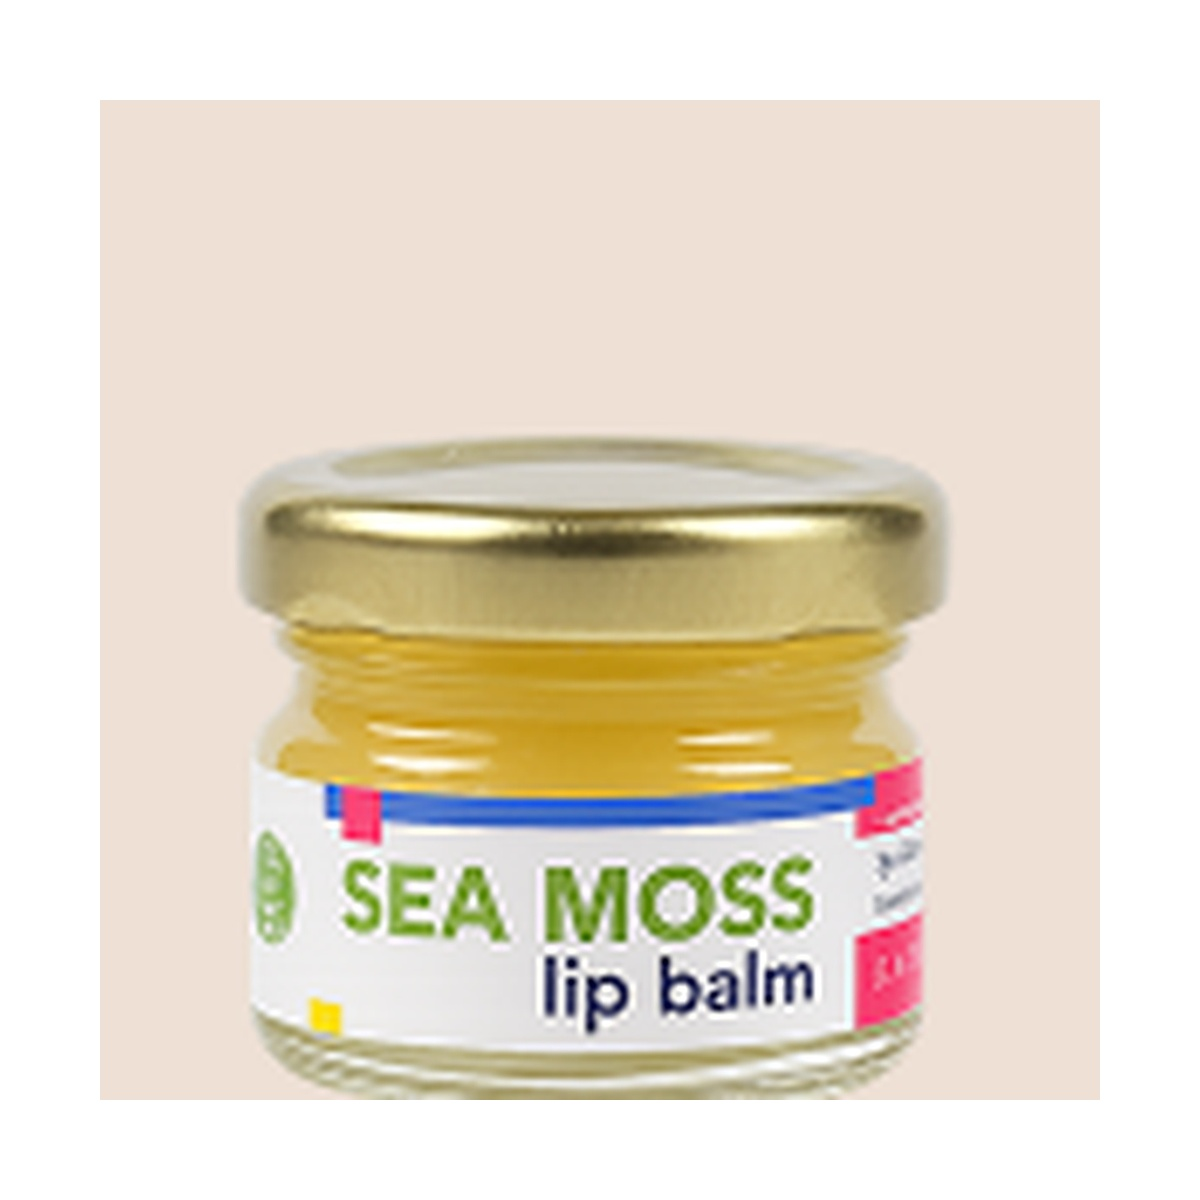
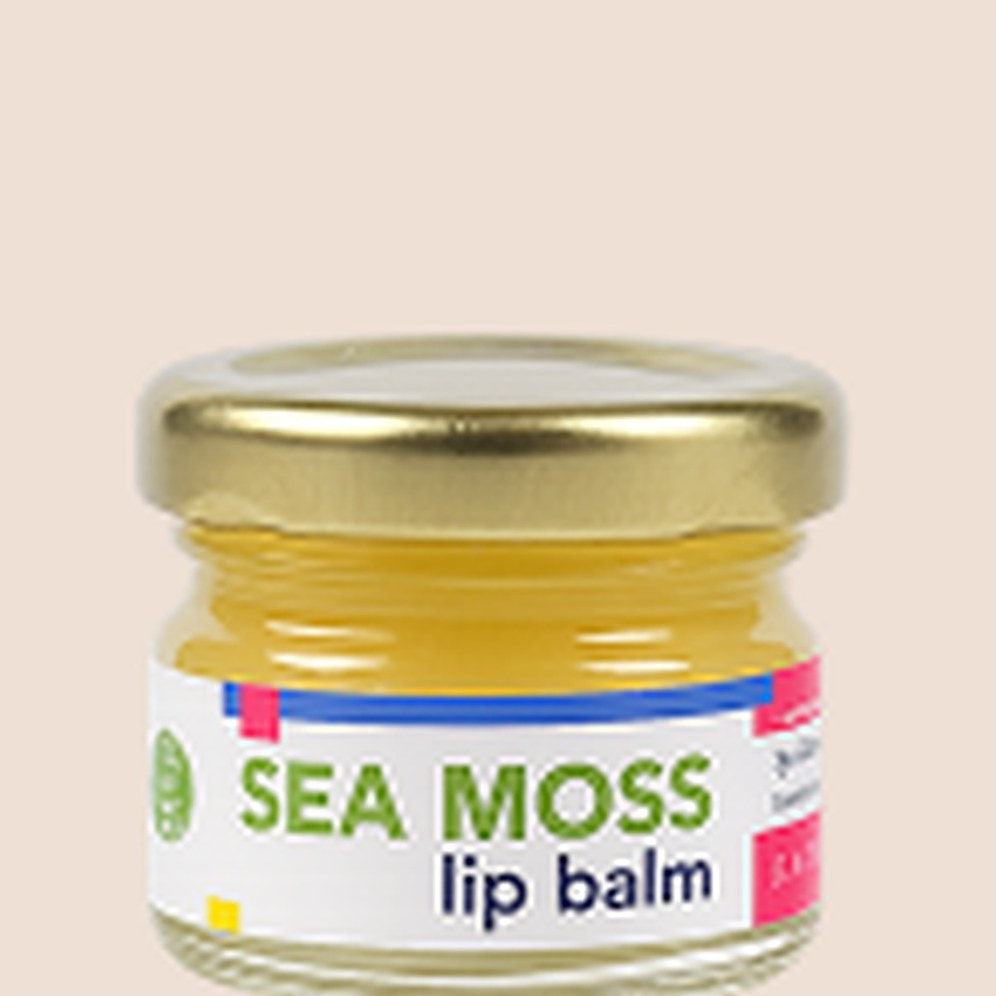
Polish product cards and photos
- Trim the white borders baked into the product photos and crop them to squares
- Product grid: 4 equal-height cards per row, full-bleed photos, calmer shadows and hover
- Hide the empty star row until a product has reviews
- Product page: full-bleed main photo; related products come from the real catalogue

diff --git a/frontend/green-public-website/src/components/Products/Products.jsx b/frontend/green-public-website/src/components/Products/Products.jsx
@@ -178,8 +178,7 @@ const Products = ({ searchTerm }) => {
       }
     },
     hover: {
-      y: -10,
-      scale: 1.03,
+      y: -4,
       transition: {
         duration: 0.3,
         ease: "easeOut"
@@ -276,7 +275,7 @@ const Products = ({ searchTerm }) => {
               variants={containerVariants}
               initial="hidden"
               animate="visible"
-              className="grid grid-cols-1 sm:grid-cols-2 lg:grid-cols-3 gap-6 md:gap-8"
+              className="grid grid-cols-1 sm:grid-cols-2 lg:grid-cols-4 gap-6"
             >
               {filteredItems.length > 0 ? (
                 filteredItems.map((product) => (
@@ -287,12 +286,12 @@ const Products = ({ searchTerm }) => {
                     whileHover="hover"
                     onHoverStart={() => setHoveredProduct(product.id)}
                     onHoverEnd={() => setHoveredProduct(null)}
-                    className="relative group"
+                    className="relative group h-full"
                   >
-                    <Link to={`/product/${product.id}`}>
-                      <div className="bg-gradient-to-b from-white to-gray-50 rounded-3xl shadow-xl hover:shadow-2xl transition-all duration-500 overflow-hidden cursor-pointer border border-[#DAB6A2]/20">
+                    <Link to={`/product/${product.id}`} className="block h-full">
+                      <div className="h-full flex flex-col bg-white rounded-2xl shadow-sm hover:shadow-xl transition-shadow duration-300 overflow-hidden cursor-pointer border border-[#DAB6A2]/25">
                         {/* Product Image Container */}
-                        <div className="relative overflow-hidden bg-gradient-to-br from-[#f8f5f2] to-[#f1e9df] p-4 md:p-5 h-64 flex items-center justify-center">
+                        <div className="relative aspect-square overflow-hidden bg-[#f4ece4]">
                           {/* Tags */}
                           <div className="absolute top-4 left-4 z-10 flex flex-col gap-2">
                             {product.tags.slice(0, 2).map((tag, idx) => (
@@ -312,7 +311,8 @@ const Products = ({ searchTerm }) => {
                               e.stopPropagation();
                               toggleWishlist(product);
                             }}
-                            className="absolute top-4 right-4 z-10 w-10 h-10 bg-white rounded-full flex items-center justify-center shadow-lg hover:shadow-xl transition-all duration-300 hover:scale-110"
+                            aria-label={isInWishlist(product.id) ? "Remove from wishlist" : "Add to wishlist"}
+                            className="absolute top-3 right-3 z-10 w-9 h-9 bg-white/90 backdrop-blur rounded-full flex items-center justify-center shadow-md hover:bg-white transition-colors duration-300"
                           >
                             <Heart 
                               className={`w-5 h-5 transition-colors duration-300 ${
@@ -324,21 +324,18 @@ const Products = ({ searchTerm }) => {
                           </button>
                           
                           {/* Product Image */}
-                          <motion.img
+                          <img
                             src={product.img}
                             alt={product.name}
-                            className="w-full h-full object-contain transform group-hover:scale-110 transition-transform duration-700"
-                            whileHover={{ scale: 1.15 }}
+                            loading="lazy"
+                            className="absolute inset-0 w-full h-full object-cover transition-transform duration-500 group-hover:scale-105"
                           />
-                          
-                          {/* Hover Overlay */}
-                          <div className="absolute inset-0 bg-gradient-to-t from-black/10 via-transparent to-transparent opacity-0 group-hover:opacity-100 transition-opacity duration-500" />
                         </div>
 
                         {/* Product Info */}
-                        <div className="p-6">
+                        <div className="p-5 flex flex-col flex-1">
                           {/* Category */}
-                          <div className="mb-3">
+                          <div className="mb-2">
                             <span className="text-xs font-medium text-[#8B5A2B] uppercase tracking-wider">
                               {product.category}
                             </span>
@@ -346,18 +343,19 @@ const Products = ({ searchTerm }) => {
                           
                           {/* Name */}
                           <h3 
-                            className="font-bold text-xl text-gray-800 mb-3 line-clamp-2 leading-tight"
+                            className="font-bold text-lg text-gray-800 mb-2 line-clamp-2 leading-snug"
                             style={{ fontFamily: "'Playfair Display', serif" }}
                           >
                             {product.name}
                           </h3>
                           
                           {/* Description */}
-                          <p className="text-gray-600 text-sm mb-4 line-clamp-3 min-h-[60px] leading-relaxed">
+                          <p className="text-gray-600 text-sm mb-4 line-clamp-2 leading-relaxed">
                             {product.description}
                           </p>
                           
-                          {/* Rating */}
+                          {/* Rating (only once there are reviews) */}
+                          {product.reviewCount > 0 && (
                           <div className="flex items-center gap-2 mb-4">
                             <div className="flex items-center gap-1">
                               {[...Array(5)].map((_, i) => (
@@ -372,16 +370,15 @@ const Products = ({ searchTerm }) => {
                               ))}
                             </div>
                             <span className="text-sm text-gray-500">
-                              {product.reviewCount > 0
-                                ? `${product.rating} (${product.reviewCount} review${product.reviewCount !== 1 ? 's' : ''})`
-                                : "No reviews yet"}
+                              {`${product.rating} (${product.reviewCount} review${product.reviewCount !== 1 ? 's' : ''})`}
                             </span>
                           </div>
+                          )}
                           
                           {/* Price & Action */}
-                          <div className="flex items-center justify-between pt-4 border-t border-gray-100">
+                          <div className="mt-auto flex items-center justify-between gap-3 pt-4 border-t border-gray-100">
                             <div>
-                              <span className="text-2xl font-bold text-[#8B5A2B]">
+                              <span className="text-xl font-bold text-[#8B5A2B]">
                                 {product.price}
                               </span>
                               {product.lowStock && (
@@ -393,7 +390,7 @@ const Products = ({ searchTerm }) => {
                             <motion.button
                               whileHover={{ scale: 1.05 }}
                               whileTap={{ scale: 0.95 }}
-                              className="bg-gradient-to-r from-[#8B5A2B] to-[#DAB6A2] hover:from-[#9C6B3C] hover:to-[#E9C6B5] text-white px-6 py-3 rounded-xl font-semibold text-sm transition-all duration-300 shadow-md hover:shadow-xl flex items-center gap-2 group"
+                              className="shrink-0 bg-[#8B5A2B] hover:bg-[#744A22] text-white px-4 py-2.5 rounded-lg font-semibold text-sm transition-colors duration-300 flex items-center gap-2"
                               onClick={(e) => {
                                 e.preventDefault();
                                 e.stopPropagation();

diff --git a/frontend/green-public-website/src/components/Products/ProductDetail.jsx b/frontend/green-public-website/src/components/Products/ProductDetail.jsx
@@ -37,7 +37,7 @@ const getProductImageByName = (name) => {
   if (n.includes("balm") || n.includes("lip")) return BalmImg;
   return SeaMossGelImg;
 };
-import { getProductById } from "@/api/productApi";
+import { getProductById, getProducts } from "@/api/productApi";
 import { createReview, getReviewsByProduct } from "@/api/reviewApi";
 
 // Enhanced product data
@@ -100,10 +100,30 @@ export default function ProductDetail() {
   const { id } = useParams();
   const [product, setProduct] = useState(null);
   const [isLoading, setIsLoading] = useState(true);
+  const [catalog, setCatalog] = useState(items);
 
   // All hooks should be grouped here
   const addToCart = useCartStore((state) => state.addToCartLocal || state.addToCart);
   const modifyServerCart = useCartStore((state) => state.modifyServerCart);
+
+  // Real catalogue for "Complete Your Wellness Ritual"; the static list is only a fallback
+  useEffect(() => {
+    let mounted = true;
+    getProducts()
+      .then((data) => {
+        if (!mounted || !Array.isArray(data) || data.length === 0) return;
+        setCatalog(data.map((p) => ({
+          id: String(p.id),
+          name: p.name,
+          desc: p.description || "",
+          price: `R ${p.price}`,
+          category: typeof p.category === "string" ? p.category : p.category?.name || "general",
+          img: getFallbackProductImage(p.id, p.name),
+        })));
+      })
+      .catch(() => {});
+    return () => { mounted = false; };
+  }, []);
 
   useEffect(() => {
     let mounted = true;
@@ -318,7 +338,10 @@ export default function ProductDetail() {
     return parsed.toLocaleDateString();
   };
 
-  const relatedProducts = items.filter((p) => p.id !== product.id && p.category === product.category);
+  // Same category first, then the rest of the range
+  const relatedProducts = catalog
+    .filter((p) => String(p.id) !== String(product.id))
+    .sort((a, b) => (b.category === product.category) - (a.category === product.category));
 
   return (
     <div className="bg-gradient-to-b from-white to-[#f8f5f2] min-h-screen" style={{ fontFamily: "'Playfair Display', serif" }}>
@@ -355,10 +378,10 @@ export default function ProductDetail() {
             transition={{ duration: 0.6 }}
             className="relative"
           >
-            <div className="bg-gradient-to-br from-[#F6E9E0] to-[#f8f5f2] p-8 md:p-12 rounded-3xl shadow-xl">
+            <div className="relative aspect-square overflow-hidden rounded-3xl shadow-lg bg-[#f4ece4]">
               {/* Premium Badge */}
-              <div className="absolute top-6 left-6 z-10">
-                <span className="inline-flex items-center px-4 py-2 bg-gradient-to-r from-[#DAB6A2] to-[#8B5A2B] text-white text-sm font-semibold rounded-full shadow-lg">
+              <div className="absolute top-4 left-4 z-10">
+                <span className="inline-flex items-center px-3 py-1.5 bg-white/90 backdrop-blur text-[#8B5A2B] text-xs font-semibold rounded-full shadow-md">
                   <FaTag className="w-3 h-3 mr-2" />
                   Premium Quality
                 </span>
@@ -372,7 +395,7 @@ export default function ProductDetail() {
               <img 
                 src={product.img} 
                 alt={product.name} 
-                className="w-full max-w-md mx-auto transform hover:scale-105 transition-transform duration-700" 
+                className="absolute inset-0 w-full h-full object-cover transition-transform duration-700 hover:scale-105" 
               />
             </div>
             
@@ -854,15 +877,16 @@ export default function ProductDetail() {
               {relatedProducts.slice(0, 3).map((item) => (
                 <motion.div
                   key={item.id}
-                  whileHover={{ y: -8 }}
-                  className="bg-gradient-to-b from-white to-gray-50 rounded-3xl overflow-hidden shadow-xl hover:shadow-2xl transition-all duration-500 border border-[#DAB6A2]/20"
+                  whileHover={{ y: -4 }}
+                  className="bg-white rounded-2xl overflow-hidden shadow-sm hover:shadow-xl transition-shadow duration-300 border border-[#DAB6A2]/25"
                 >
-                  <Link to={`/product/${item.id}`} className="block">
-                    <div className="p-8 bg-gradient-to-br from-[#f8f5f2] to-[#f1e9df]">
+                  <Link to={`/product/${item.id}`} className="block group">
+                    <div className="relative aspect-square overflow-hidden bg-[#f4ece4]">
                       <img 
                         src={item.img} 
                         alt={item.name} 
-                        className="w-full h-48 object-contain mx-auto hover:scale-105 transition-transform duration-500"
+                        loading="lazy"
+                        className="absolute inset-0 w-full h-full object-cover transition-transform duration-500 group-hover:scale-105"
                       />
                     </div>
                     <div className="p-6">
